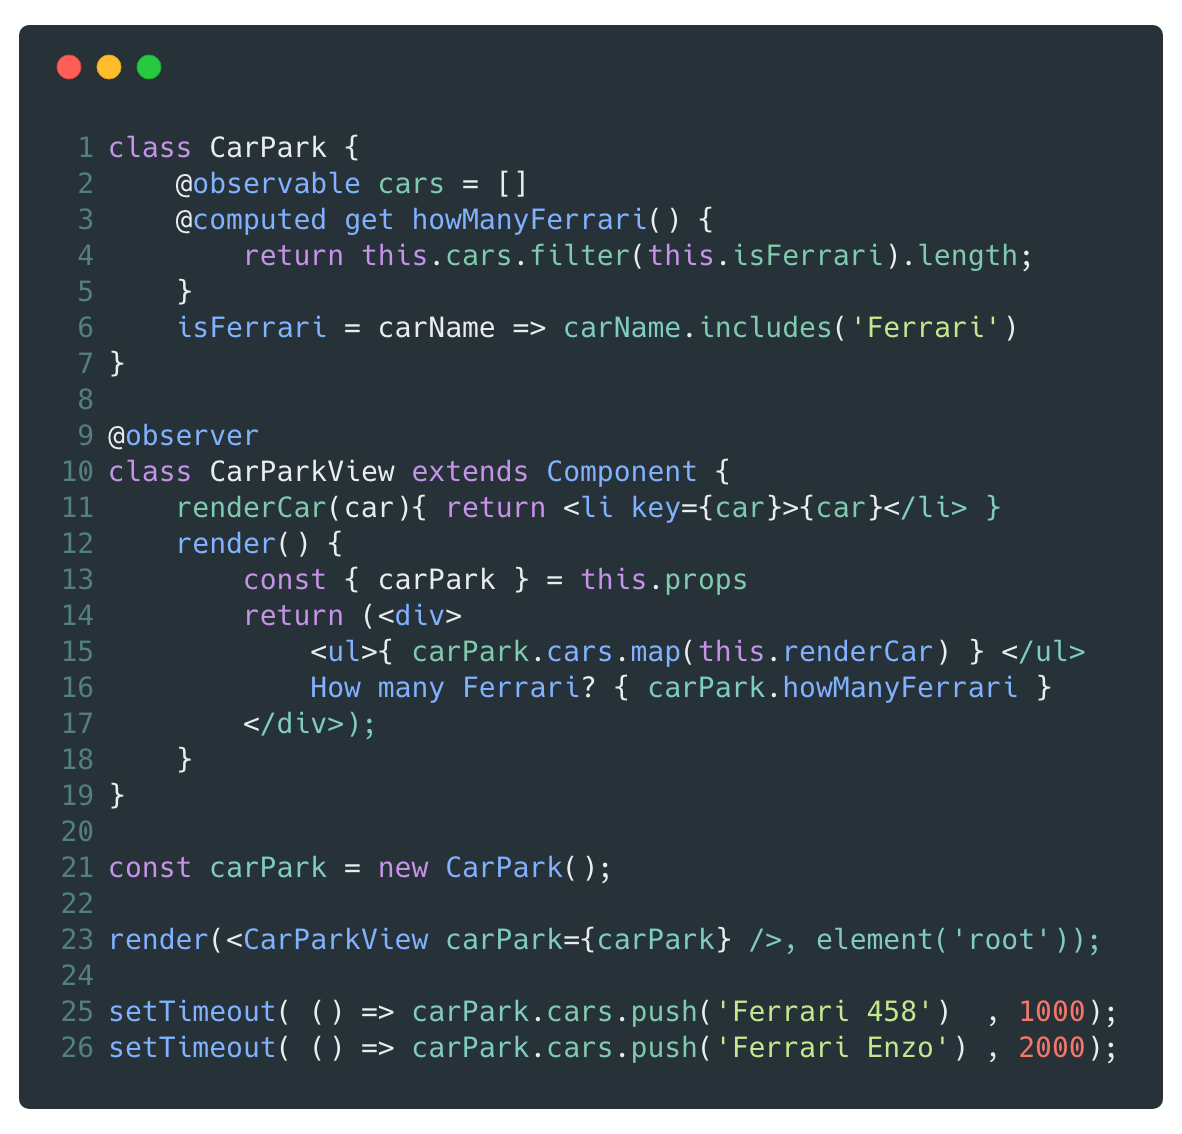
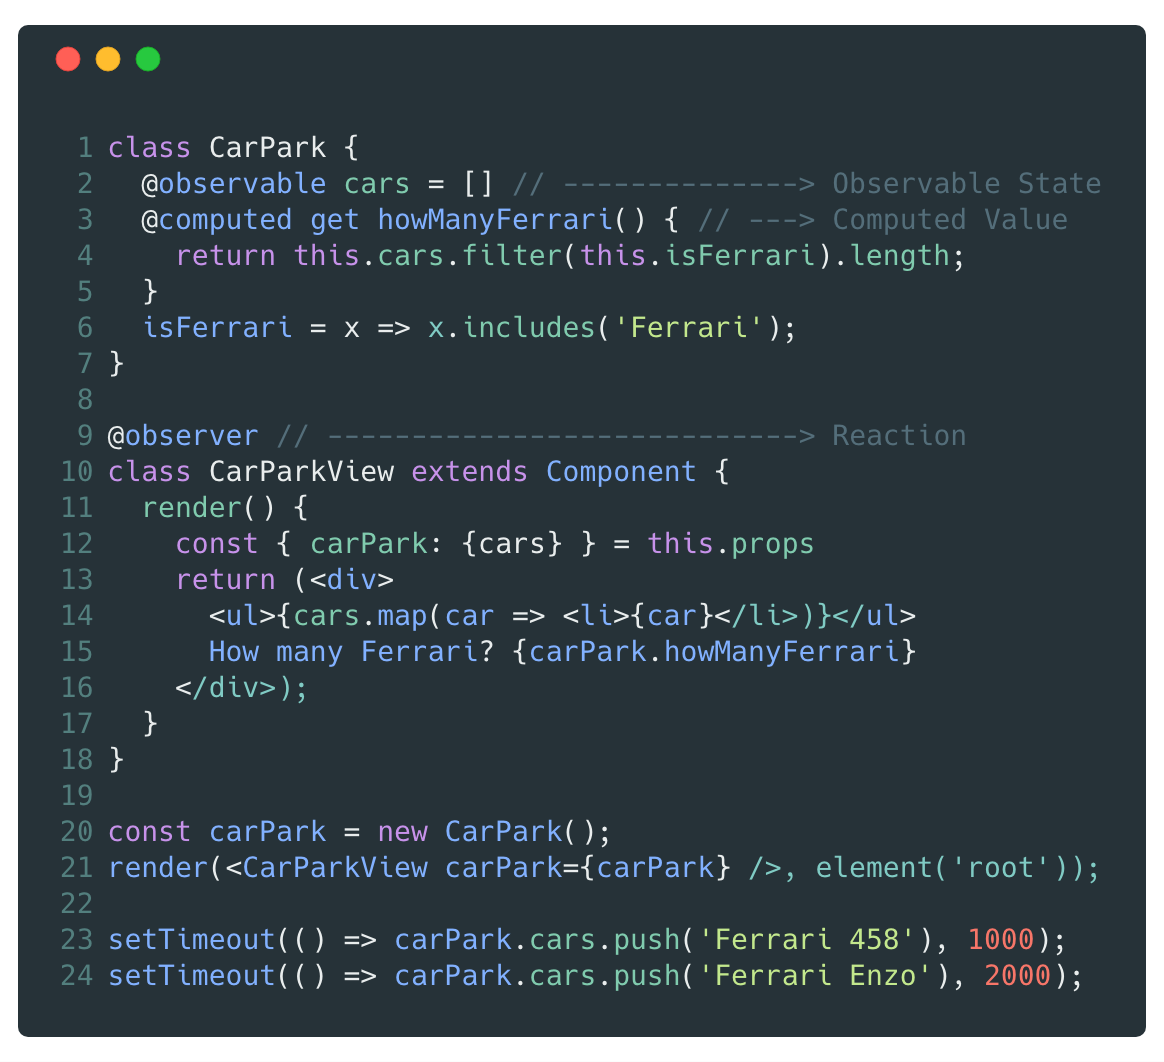
shorter mobx example

Changed region(s): [[0.0309, 0.1243, 0.9588, 0.9322], [0.1237, 0.2797, 0.8351, 0.3418], [0.0619, 0.0311, 0.1237, 0.0621]]

diff --git a/assets/codeExamples/mobx/code.js b/assets/codeExamples/mobx/code.js
@@ -1,31 +1,30 @@
-import {observable, computed} from 'mobx';
-import {observer} from 'mobx-react';
-import React, {Component} from 'react';
+import { observable, computed } from 'mobx';
+import { observer } from 'mobx-react';
+import React, { Component } from 'react';
 import { render } from 'react-dom';
 
 class CarPark {
-    @observable cars = []
-    @computed get howManyFerrari() {
-        return this.cars.filter(this.isFerrari).length;
-    }
-    isFerrari = carName => carName.includes('Ferrari')
+  @observable cars = []
+  @computed get howManyFerrari() {
+    return this.cars.filter(this.isFerrari).length;
+  }
+  isFerrari = x => x.includes('Ferrari');
 }
 
 @observer
 class CarParkView extends Component {
-    renderCar(car){ return <li key={car}>{car}</li> }
-    render() {
-        const { carPark } = this.props
-        return (<div>
-            <ul>{ carPark.cars.map(this.renderCar) } </ul>
-            How many Ferrari? { carPark.howManyFerrari }
-        </div>);
-    }
+  render() {
+    const { carPark: { cars } } = this.props
+    return (<div>
+      <ul>{cars.map(car => <li>{car}</li>)}</ul>
+      How many Ferrari? {carPark.howManyFerrari}
+    </div>);
+  }
 }
+
 const carPark = new CarPark();
 
-render(<CarParkView carPark={carPark} />,document.getElementById('root'));
+render(<CarParkView carPark={carPark} />, document.getElementById('root'));
 
-setTimeout( () => carPark.cars.push('Ferrari 458')  , 1000);
-setTimeout( () => carPark.cars.push('Ferrari Enzo') , 2000);
-
+setTimeout(() => carPark.cars.push('Ferrari 458'), 1000);
+setTimeout(() => carPark.cars.push('Ferrari Enzo'), 2000);

diff --git a/presentation.md b/presentation.md
@@ -65,14 +65,11 @@ Side effects like updating a React component
 
 # MobX
 
-_**Observable state**_
+_**Observable State**_
 Mutable Application State
 
 _**Computed Values**_
 Automatically derived values
-
-_**@Observer**_
-Subscribing to observables
 
 _**Reactions**_
 Side effects like updating a React component
